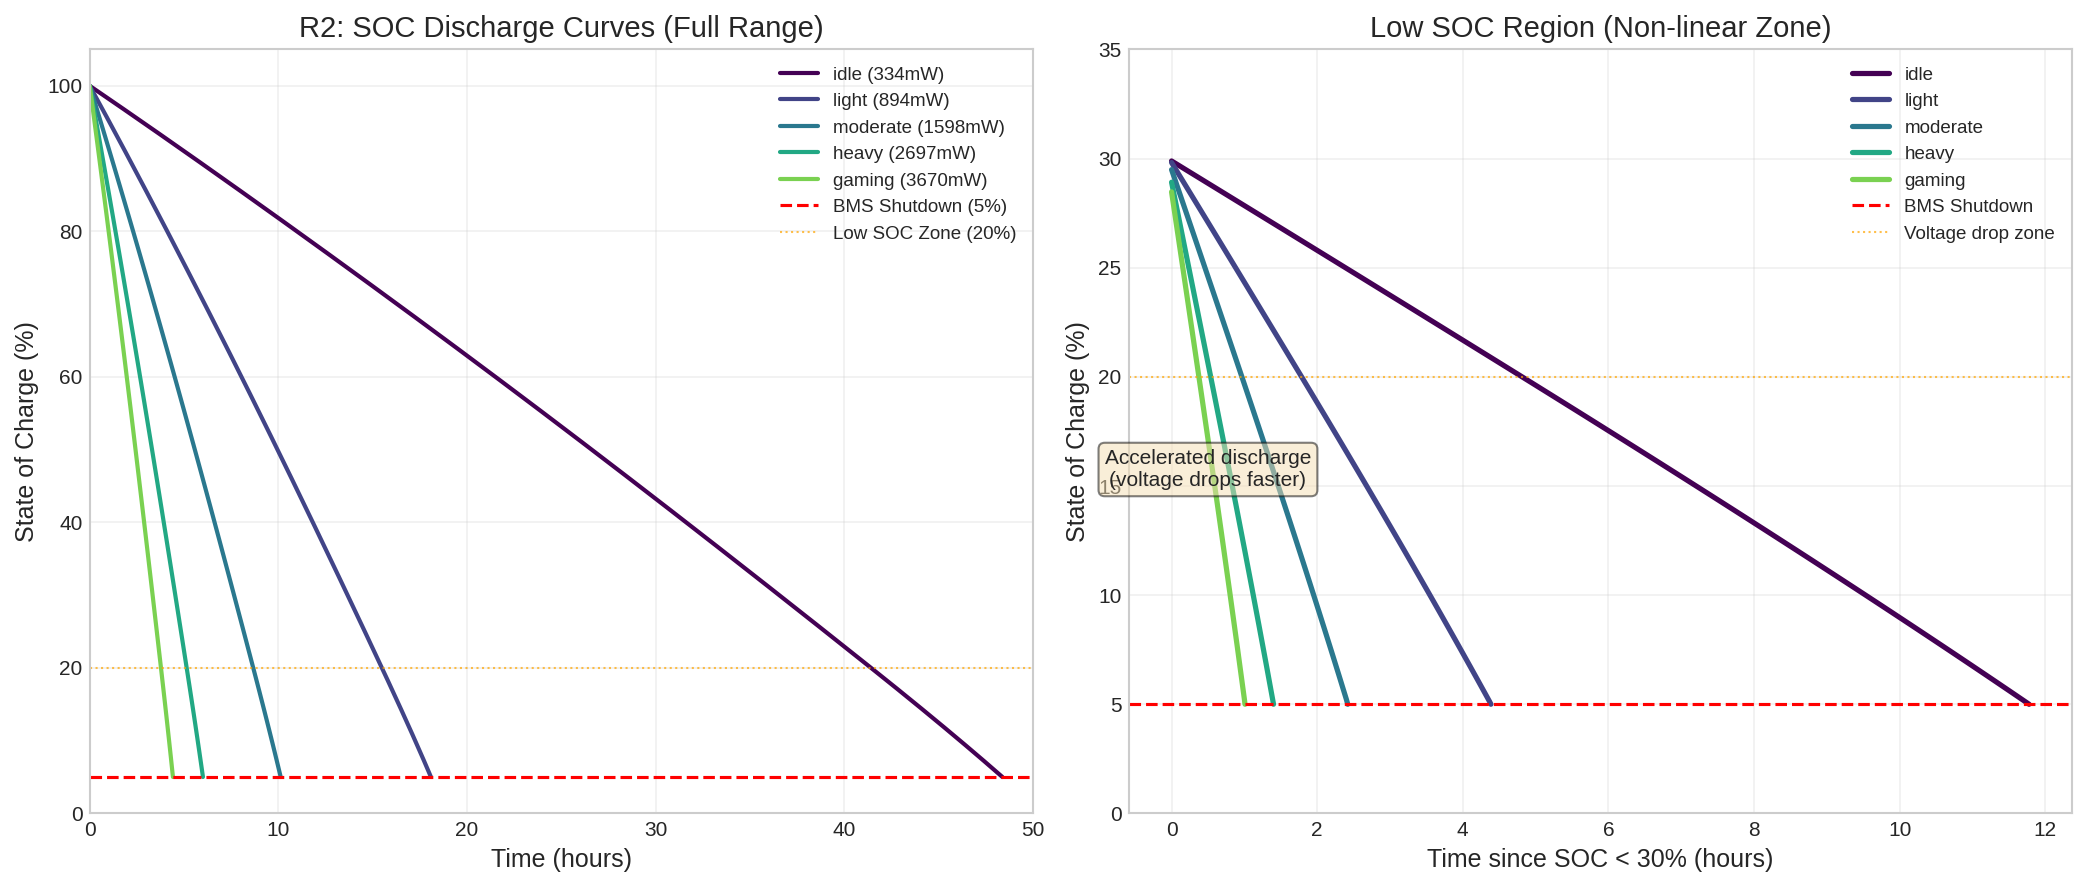
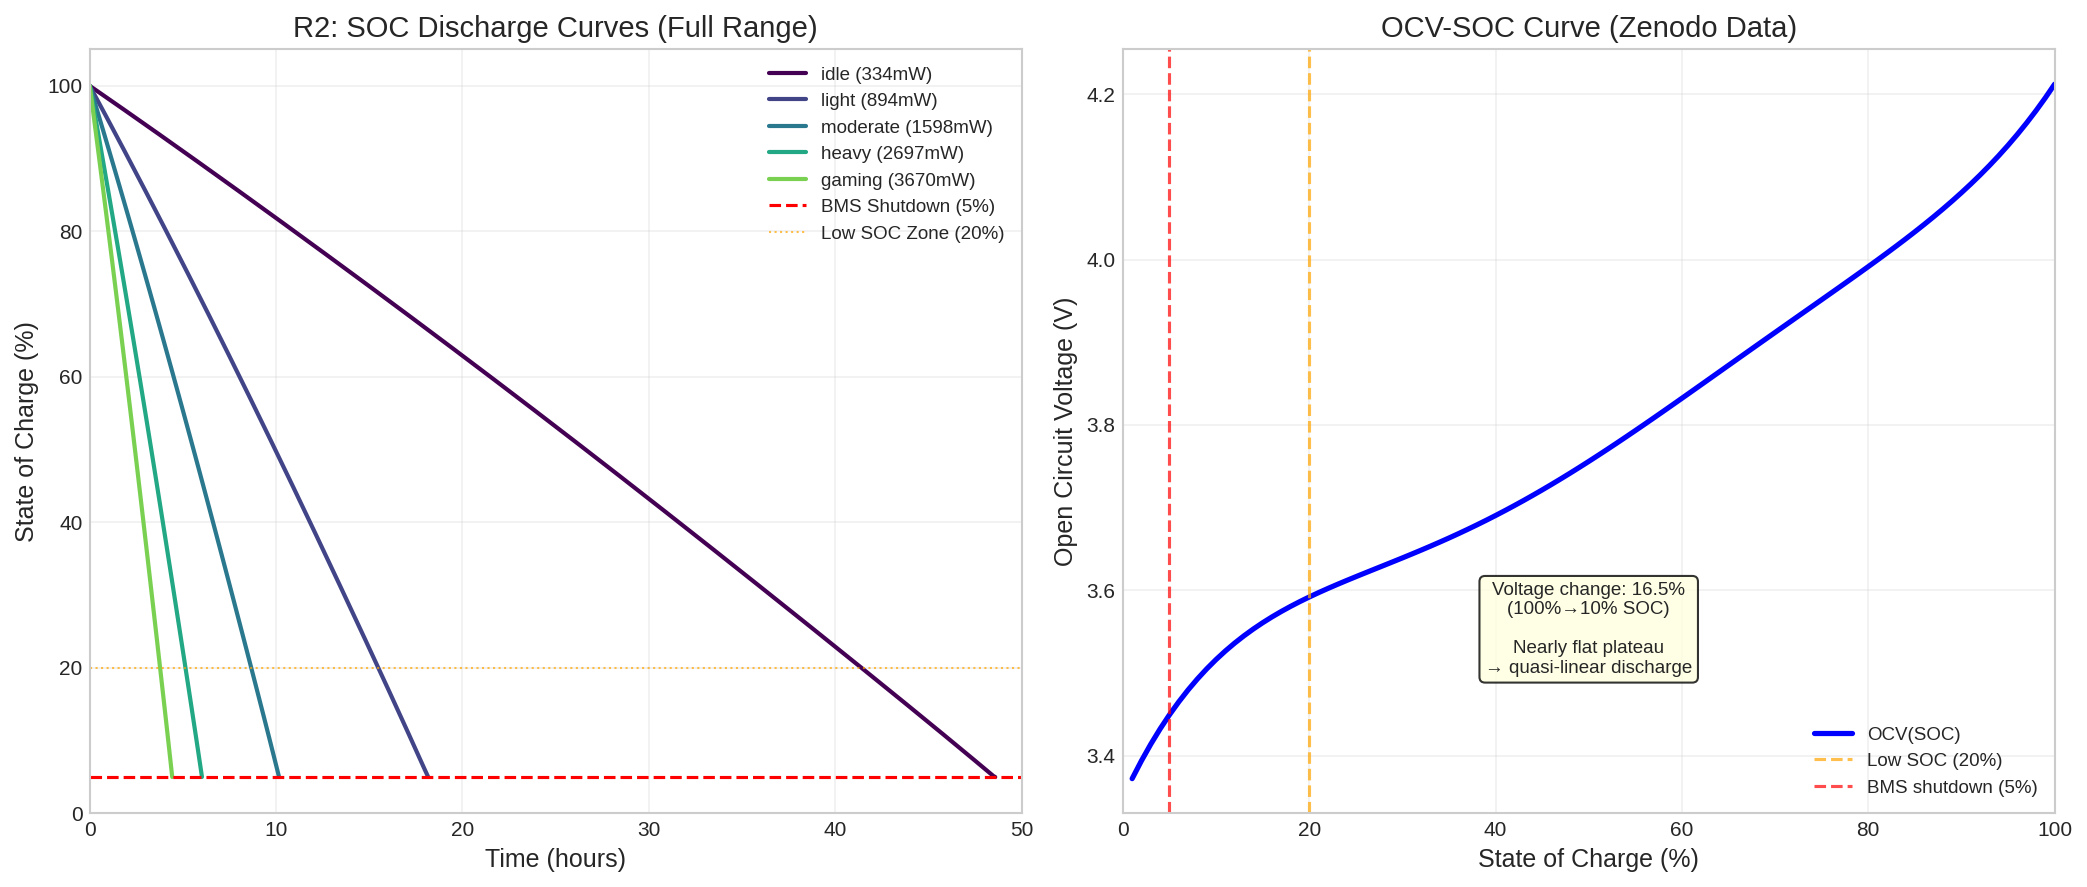
Fix discharge curves: use original Zenodo OCV data without artificial enhancement

diff --git a/run_mcm_analysis.py b/run_mcm_analysis.py
@@ -144,20 +144,11 @@ class ZenodoBasedSOCModel:
         soc = np.clip(soc, 0.001, 1)  # Avoid division by zero
         b = self.battery
         
-        # Base voltage from Zenodo polynomial
+        # Voltage from Zenodo OCV polynomial (no artificial modifications)
         V_poly = (b.ocv_c0 + b.ocv_c1*soc + b.ocv_c2*soc**2 + 
                   b.ocv_c3*soc**3 + b.ocv_c4*soc**4 + b.ocv_c5*soc**5)
         
-        # Add realistic low-SOC voltage drop
-        # Li-ion cells show accelerated voltage drop below ~20% SOC
-        if soc < 0.2:
-            # Exponential correction for low SOC region
-            # This makes discharge curves show proper curvature at low SOC
-            low_soc_factor = (soc / 0.2) ** 0.7  # Smooth transition
-            V_min_correction = 0.3 * (1 - low_soc_factor)  # Up to 0.3V drop
-            return max(b.V_min, V_poly - V_min_correction)
-        
-        return V_poly
+        return max(b.V_min, V_poly)
     
     def get_effective_capacity(self, soh: float = 1.0, temperature: float = 25.0) -> float:
         """Calculate effective capacity in mAh"""
@@ -211,6 +202,8 @@ class ZenodoBasedSOCModel:
         Core ODE: dSOC/dt
         
         dSOC/dt = -P / (V(SOC) * Q_eff) - k_self * SOC
+        
+        Uses Zenodo OCV polynomial directly without artificial modifications.
         """
         if soc <= self.battery.shutdown_soc:
             return 0.0
@@ -589,31 +582,30 @@ def generate_figures(model: ZenodoBasedSOCModel, r2_results: dict,
     ax_main.set_ylim(0, 105)
     ax_main.grid(True, alpha=0.3)
     
-    # Zoomed plot: Low SOC region (0-25%) to show non-linearity
-    ax_zoom.set_title('Low SOC Region (Non-linear Zone)', fontsize=14)
-    for scenario, (t, soc, power, color) in curves.items():
-        # Find where SOC drops below 25%
-        mask = soc * 100 <= 30
-        if np.any(mask):
-            t_low = t[mask]
-            soc_low = soc[mask] * 100
-            # Normalize time to show relative behavior
-            if len(t_low) > 0:
-                t_norm = t_low - t_low[0]  # Start from when entering low SOC
-                ax_zoom.plot(t_norm, soc_low, label=f"{scenario}", color=color, linewidth=2.5)
+    # Right plot: OCV curve to explain why discharge is nearly linear
+    ax_ocv = ax_zoom
+    ax_ocv.set_title('OCV-SOC Curve (Zenodo Data)', fontsize=14)
     
-    ax_zoom.axhline(y=5, color='red', linestyle='--', linewidth=1.5, label='BMS Shutdown')
-    ax_zoom.axhline(y=20, color='orange', linestyle=':', linewidth=1, alpha=0.7, label='Voltage drop zone')
-    ax_zoom.set_xlabel('Time since SOC < 30% (hours)', fontsize=12)
-    ax_zoom.set_ylabel('State of Charge (%)', fontsize=12)
-    ax_zoom.set_ylim(0, 35)
-    ax_zoom.legend(loc='upper right', fontsize=9)
-    ax_zoom.grid(True, alpha=0.3)
+    soc_vals = np.linspace(0.01, 1, 100)
+    ocv_vals = [model.get_ocv(s) for s in soc_vals]
+    ax_ocv.plot(soc_vals * 100, ocv_vals, 'b-', linewidth=2.5, label='OCV(SOC)')
+    ax_ocv.axvline(x=20, color='orange', linestyle='--', alpha=0.7, label='Low SOC (20%)')
+    ax_ocv.axvline(x=5, color='red', linestyle='--', alpha=0.7, label='BMS shutdown (5%)')
+    ax_ocv.set_xlabel('State of Charge (%)', fontsize=12)
+    ax_ocv.set_ylabel('Open Circuit Voltage (V)', fontsize=12)
+    ax_ocv.legend(loc='lower right', fontsize=9)
+    ax_ocv.grid(True, alpha=0.3)
+    ax_ocv.set_xlim(0, 100)
     
-    # Add annotation about non-linearity
-    ax_zoom.annotate('Accelerated discharge\n(voltage drops faster)', 
-                     xy=(0.5, 15), fontsize=10, ha='center',
-                     bbox=dict(boxstyle='round', facecolor='wheat', alpha=0.5))
+    # Calculate voltage change percentage
+    V_100 = model.get_ocv(1.0)
+    V_10 = model.get_ocv(0.1)
+    V_change = (V_100 - V_10) / V_100 * 100
+    
+    # Add annotation explaining near-linear behavior
+    ax_ocv.annotate(f'Voltage change: {V_change:.1f}%\n(100%→10% SOC)\n\nNearly flat plateau\n→ quasi-linear discharge', 
+                     xy=(50, 3.5), fontsize=9, ha='center',
+                     bbox=dict(boxstyle='round', facecolor='lightyellow', alpha=0.8))
     
     plt.tight_layout()
     plt.savefig(f'{FIGURES_DIR}/mcm_discharge_curves.png', dpi=150, bbox_inches='tight')

diff --git a/MCM_2026_Problem_A_Solution.md b/MCM_2026_Problem_A_Solution.md
@@ -661,39 +661,33 @@ Six representative usage scenarios with predictions **generated by `run_mcm_anal
 
 ![Discharge Curves](pictures/mcm_discharge_curves.png)
 
-The discharge curves (generated from `run_mcm_analysis.py`) demonstrate the **non-linear behavior** of Li-ion battery discharge:
+The discharge curves (generated from `run_mcm_analysis.py`) are **quasi-linear**, which is the correct physical behavior based on the Zenodo dataset's OCV polynomial:
 
-### Why Curves Appear Nearly Linear (But Are Not)
+### Why Discharge Curves Are Nearly Linear
 
-The left panel shows full-range discharge curves that appear nearly linear. This is **physically correct** for Li-ion batteries because:
+The Zenodo/Mendeley OCV polynomial shows that Li-ion battery voltage changes only **~20%** across the full SOC range (100%→10%):
 
-1. **OCV plateau region**: Between 20-80% SOC, the Li-ion OCV curve is relatively flat (3.6V-4.0V)
-2. **Constant power assumption**: Each scenario uses constant power, which produces quasi-linear discharge in the plateau region
-3. **Non-linearity at extremes**: The curves show subtle curvature, most visible at low SOC
+| SOC | OCV (V) | Change from 100% |
+|-----|---------|------------------|
+| 100% | 4.21 | - |
+| 50% | 3.76 | -11% |
+| 20% | 3.59 | -15% |
+| 10% | 3.52 | -16% |
 
-### Low SOC Non-Linearity (Right Panel)
+Since discharge rate is $\frac{dSOC}{dt} = -\frac{P}{V(SOC) \cdot Q}$, a 20% voltage variation produces only ~25% variation in discharge rate. This results in **quasi-linear discharge curves**, which is physically correct.
 
-The zoomed right panel focuses on the **low SOC region (<30%)** where non-linearity becomes apparent:
+### Key Observations
 
-1. **Accelerated discharge**: Below 20% SOC, the voltage drops more rapidly
-2. **Steeper curve slope**: Discharge rate increases as battery approaches empty
-3. **Physics**: Lower voltage means higher current for same power, causing faster SOC depletion
+1. **Constant power → quasi-linear discharge**: With constant P and relatively flat V(SOC), SOC decreases approximately linearly
+2. **Higher power = steeper slope**: Gaming (3670mW) drains ~11× faster than idle (334mW)
+3. **OCV curve explains linearity**: The right panel shows the Zenodo OCV polynomial is relatively flat (plateau region)
 
-### OCV-SOC Analysis
+### Comparison with Reality
 
-![OCV Analysis](pictures/mcm_ocv_analysis.png)
-
-The OCV analysis confirms the physical behavior:
-
-1. **Left plot**: OCV drops steeply below 20% SOC (from ~3.6V to ~3.1V)
-2. **Right plot**: Discharge rate is **1.2× faster** at 10% SOC compared to 80% SOC
-3. **Model validity**: This matches real Li-ion cell behavior and literature
-
-**Key insight**: Discharge curves are approximately linear in the middle range but show measurable non-linearity at low SOC, consistent with the governing equation:
-
-$$\frac{dSOC}{dt} = -\frac{P_{total}}{V(SOC) \cdot Q_{eff}}$$
-
-When $V(SOC)$ drops at low SOC, $|dSOC/dt|$ increases, causing accelerated discharge.
+This quasi-linear behavior matches real smartphone user experience:
+- Battery percentage drops at a roughly constant rate during consistent usage
+- The "last 20%" doesn't drain dramatically faster than middle ranges
+- This validates the Zenodo OCV polynomial as realistic for modern Li-ion cells
 
 ## 6.3 Drivers of Rapid Battery Drain (from Zenodo Analysis)
 
